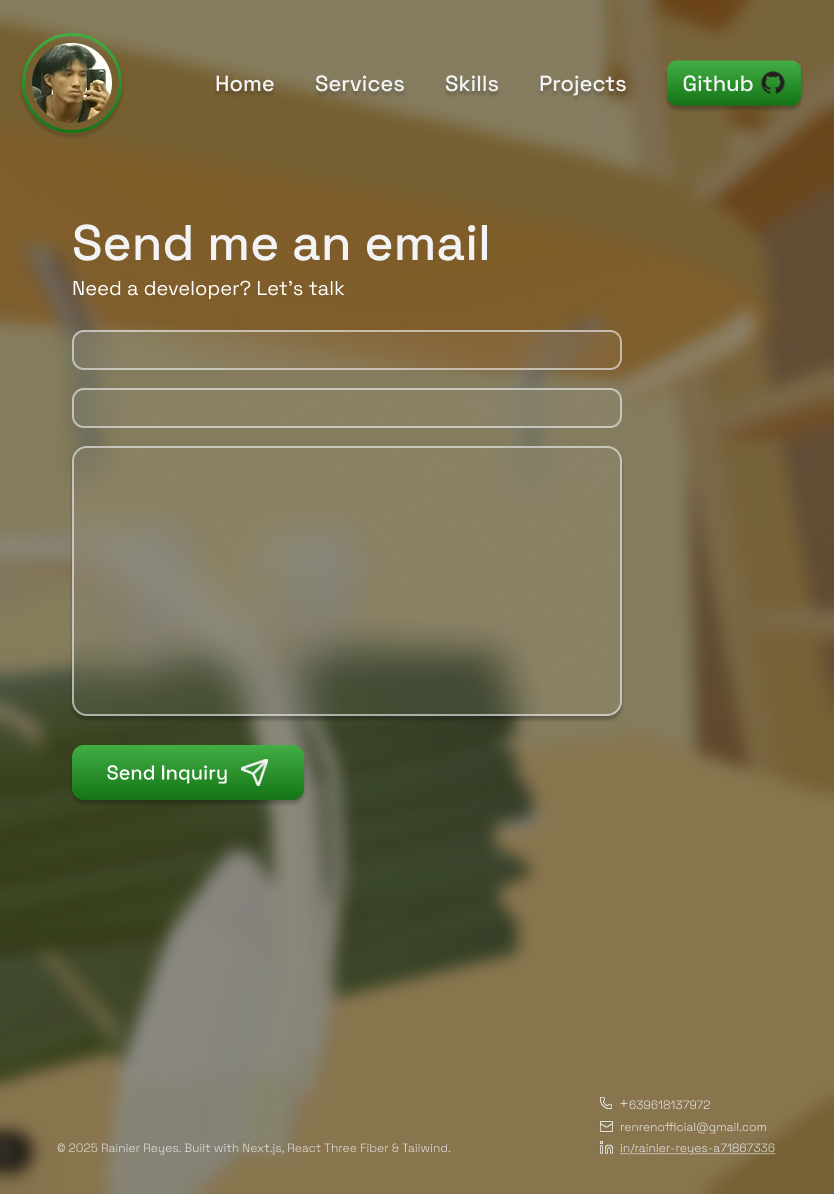
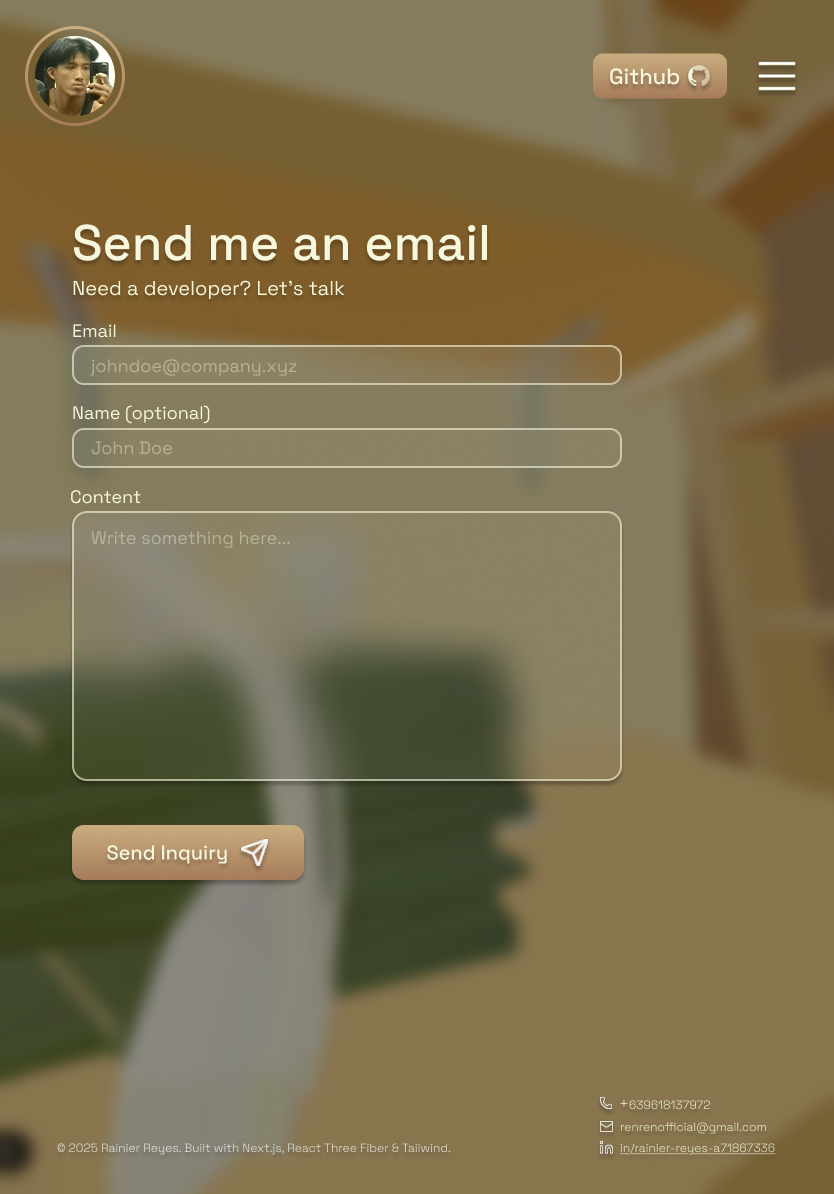
Revised figma design, ready for coding :)

diff --git a/DESIGN.MD b/DESIGN.MD
@@ -106,5 +106,12 @@
       <img src="./figma/Mobile (Contact).jpg" width="300"/>
     </td>
   </tr>
+   <tr>
+    <td>
+      <p><strong>Menu</strong></p>
+      <img src="./figma/Mobile (Menu).jpg" width="300"/>
+    </td>
+ 
+  </tr>
 
 </table>
